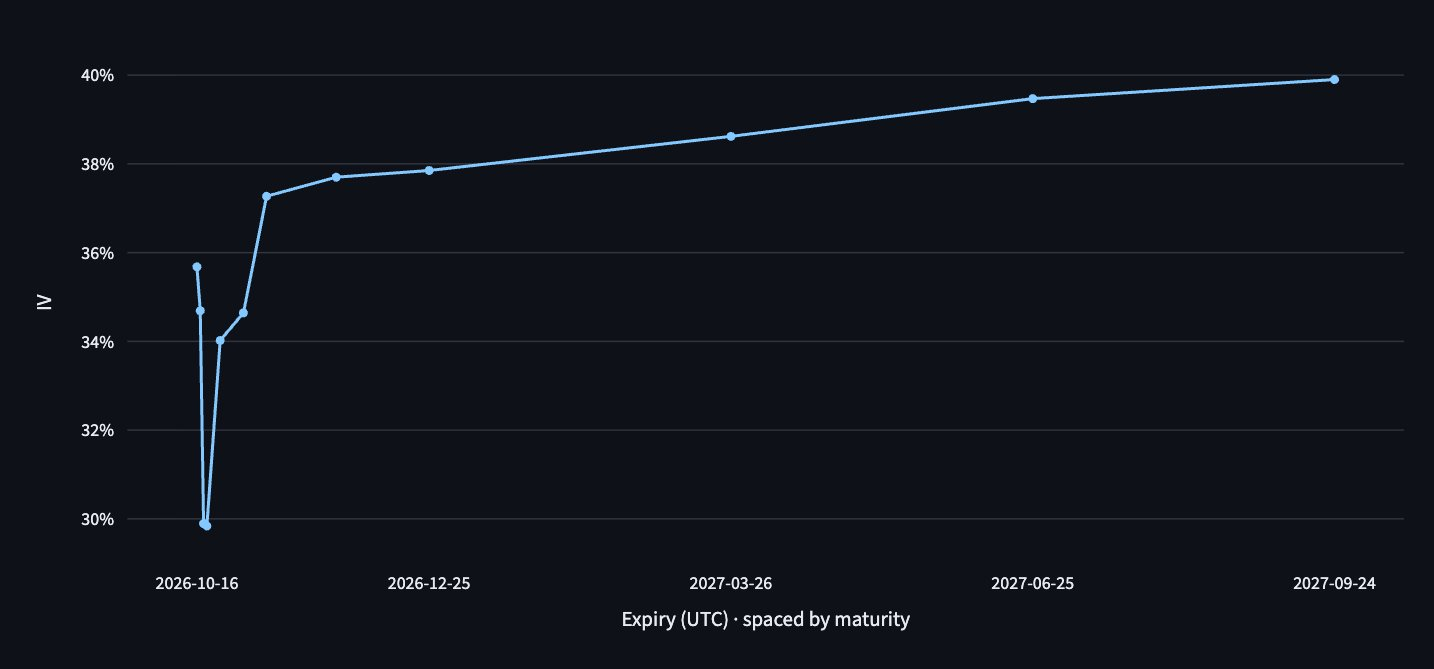
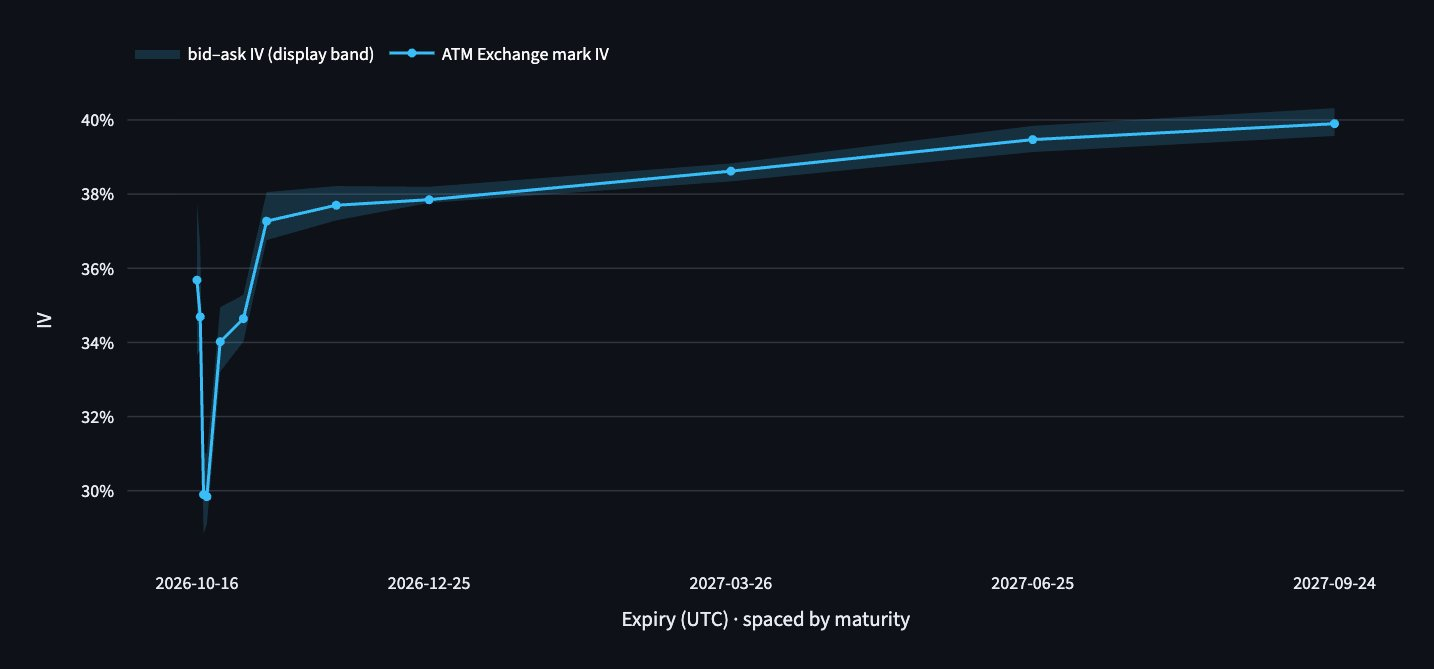
README: log-moneyness axes, Wide and All listed ranges, one-surface fill
Recapture the README images from the finished surface work and update the
test count to 278.

diff --git a/README.md b/README.md
@@ -35,9 +35,15 @@ the way, so the result can be checked rather than trusted.
 - **One surface from Calls and Puts.** Each strike uses the out-of-the-money
   side (Puts below spot, Calls above, the average near spot), since
   in-the-money quotes are mostly intrinsic value and give unreliable IV.
-- **Honest interpolation.** Gaps in the surface are filled by linear
-  interpolation of total variance (`IV² × T`) across moneyness and maturity,
-  only inside observed data; filled cells are labelled and nothing is
+- **Log-moneyness axes.** The surface, heatmap and smiles space strikes by
+  log `K / S`, so put and call wings get equal width; labels and hover stay in
+  `K / S`. The range opens on Wide (0.5–2.0) and goes from Core (0.8–1.2) to
+  All listed, every strike Deribit lists.
+- **Honest interpolation.** One surface is built per snapshot from every
+  observed IV and each range shows a slice of it, so a cell has the same
+  value in every view. Gaps are filled by linear interpolation of total
+  variance (`IV² × T`) across moneyness and maturity at a fixed strike–time
+  scale, only inside observed data; filled cells are labelled and nothing is
   extrapolated.
 - **Gamma exposure with the assumption in plain sight.** GEX is in USD per 1%
   BTC move. Deribit does not publish who is long or short, so the dealer
@@ -46,7 +52,7 @@ the way, so the result can be checked rather than trusted.
 - **Missing stays missing.** Absent quotes and failed solves stay empty and
   charts show gaps, never zeros or silent substitutes.
 - **Reproducible and tested.** Saved analyses keep the raw snapshot, not
-  computed numbers. 258 tests run offline on the frozen snapshot in CI.
+  computed numbers. 278 tests run offline on the frozen snapshot in CI.
 
 ## Screenshots
 
